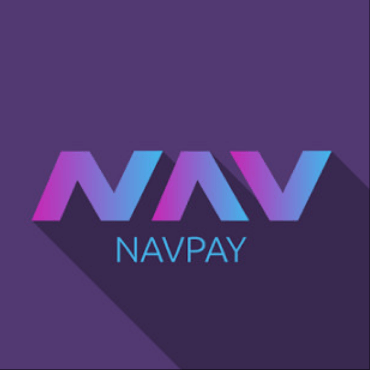
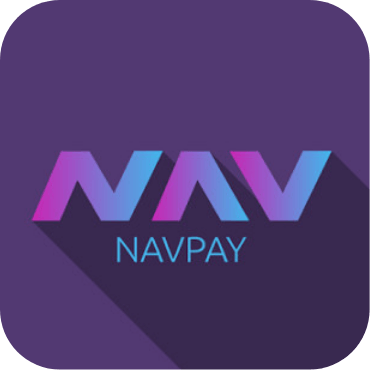
Updated merchants page

Changed region(s): [[0.0, 0.0, 1.0, 1.0], [0.0, 0.0, 0.1486, 0.1486]]

diff --git a/themes/nav-community-v1/static/css/style.css b/themes/nav-community-v1/static/css/style.css
@@ -3541,7 +3541,6 @@ ul li.cat-item a {
 }
 
 .links-image-shadow .service-icon img {
-  border: 1px solid #EEE;
   filter: drop-shadow(5px 5px 5px rgba(0,0,0,0.2))
 }
 

diff --git a/content/merchants/index.md b/content/merchants/index.md
@@ -14,52 +14,57 @@ type: "default"
     linkBgColor="#43799a"
     gradient=""
     btn1Link="/about-this-website"
-    btn1Txt="How To Contribute"
+    btn1Txt="Contribute To This Page"
     fontColor="#FFF">}}
 <p>Anyone can accept NavCoin on their website or in their store to receive instant global payments.</p>
 <p>If your store accepts NavCoin and you would like to be listed on this page, read about how you can contribute to this website through the link below.
 {{< /left_image_section >}}
 
 {{< links_section
-  title="Pay With NAV"
-    subtitle="Check out a selection of the companies that accept NAV as payment."    
-    containerPadding="40px 0 60px 0"
-    titleMargin="0 0 20px 0"
+  title="Pay With NavCoin Here"
+    subtitle="You can use your NavCoin to buy all sorts of things online and in stores. Check out these merchants that accept NAV and show your support."    
+    containerPadding="40px 0 0px 0"
+    titleMargin="20px 0 40px 0"
     class="links-image-shadow"
     bgColor="#FFF"
     gradient="false"
-    feature1Img="navPi.png"
+    feature1Img="navpi.png"
     feature1Title="NavPi Store"
     feature1Desc="Purchase a NavPi with NavCoin to stake your NAV easily 24 hours a day."
     feature1Txt="Go to website »"
-    feature1Link="https://store.navcoin.org"
-    feature2Img="mha_400x400.jpg"
-    feature2Title="Mile High Ambulance"
-    feature2Desc="Full service ambulance company which accepts NavCoin for bill payments."
-    feature2Txt="Go to website »"
-    feature2Link="https://milehighambulance.com/now-accepting-navcoin"
-    feature3Img="navcoin-default.png"
-    feature3Title="Merch Store"
-    feature3Desc="A range of NavCoin apparel provided by AlwaysHodl."
+    feature1Link="https://navpi.navcoinstore.com/product/navpi-stakebox/"
+    feature2Img="CoinPayments.png"
+    feature2Title="CoinPayments"
+    feature2Desc="Over 60 merchants accept NAV using the CoinPayments merchant gateway."
+    feature2Txt="Go to store directory »"
+    feature2Link="https://www.coinpayments.net/store-directory-coin-NAV"
+    feature3Img="merchStore.png"
+    feature3Title="NavCoin Merch Store"
+    feature3Desc="Wear NavCoin with pride with this range of branded merchandise."
     feature3Txt="Go to website »"
-    feature3Link="https://merch.navcoin.org/"
+    feature3Link="https://navcoinstore.com/"
  >}}
 {{< links_section
-    containerPadding="0 0 0 0"
+    containerPadding="0 0 80px 0"
     titleMargin="0 0 0 0"
     class="links-image-shadow"
     bgColor="#FFF"
     gradient="false"
-    feature1Img="bitcoingallery_400x400.png"
+    feature1Img="kirkDunkley.png"
     feature1Title="BitcoinGallery.Art"
-    feature1Desc="Laser machined NavCoin sculptures."
+    feature1Desc="Art and cryptocurrency collide in unique handmade sculptures of your favourite coin."
     feature1Txt="Go to website »"
     feature1Link="http://www.sigmasixdesign.com/bitcoingallery-store#!/The-Simplifier-NAV/p/102127036/category=28247023"
-    feature2Img="coinpayments_400x400.jpg"
-    feature2Title="CoinPayments"
-    feature2Desc="Over 60 more merchants accept NAV using the CoinPayments merchant gateway."
+    feature2Img="MHA.png"
+    feature2Title="Mile High Ambulance"
+    feature2Desc="Full service ambulance company which accepts NavCoin for bill payments."
     feature2Txt="Go to website »"
-    feature2Link="https://www.coinpayments.net/store-directory-coin-NAV"
+    feature2Link="https://milehighambulance.com/now-accepting-navcoin"
+    feature3Img="HODL.png"
+    feature3Title="HODL Merch Store"
+    feature3Desc="The home of crypto merchandise including the NavCoin range of clothing and accessories."
+    feature3Txt="Go to website »"
+    feature3Link="https://alwayshodl.com/"
  >}}
 {{< links_section
     title="Merchant Tools"
@@ -67,19 +72,19 @@ type: "default"
     fontColor="#FFF"
     bgColor="#7d5ab5"
     containerPadding="40px 0 60px 0"
-    titleMargin="0 0 20px 0"
+    titleMargin="0 0 40px 0"
     gradient="false"
     feature1Img="payButton.png"
     feature1Title="Payment Button"
     feature1Desc="Accept NavCoin Payments or donations on your website with this simple button."
     feature1Txt="Go to website »"
     feature1Link="https://brianium.github.io/nav-button/"
-    feature2Img="coinPaymentTools.png"
+    feature2Img="CoinPaymentTools.png"
     feature2Title="CoinPayments"
     feature2Desc="Instant crypto checkout with easy to use cart plugins, buttons, and invoices."
     feature2Txt="Go to website »"
     feature2Link="https://www.coinpayments.net/merchant-tools"
-    feature3Img="navPay.png"
+    feature3Img="NavPay.png"
     feature3Title="NavPay"
     feature3Desc="A simple way to accept NavCoin payments is with the NavPay mobile wallet."
     feature3Txt="Go to website »"
